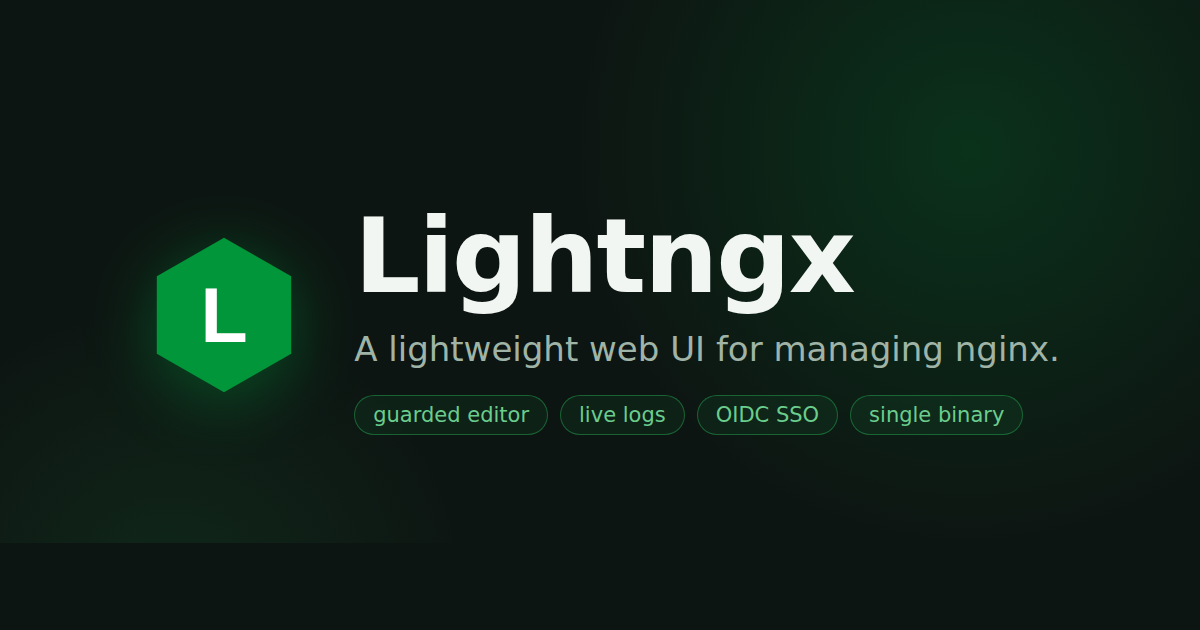
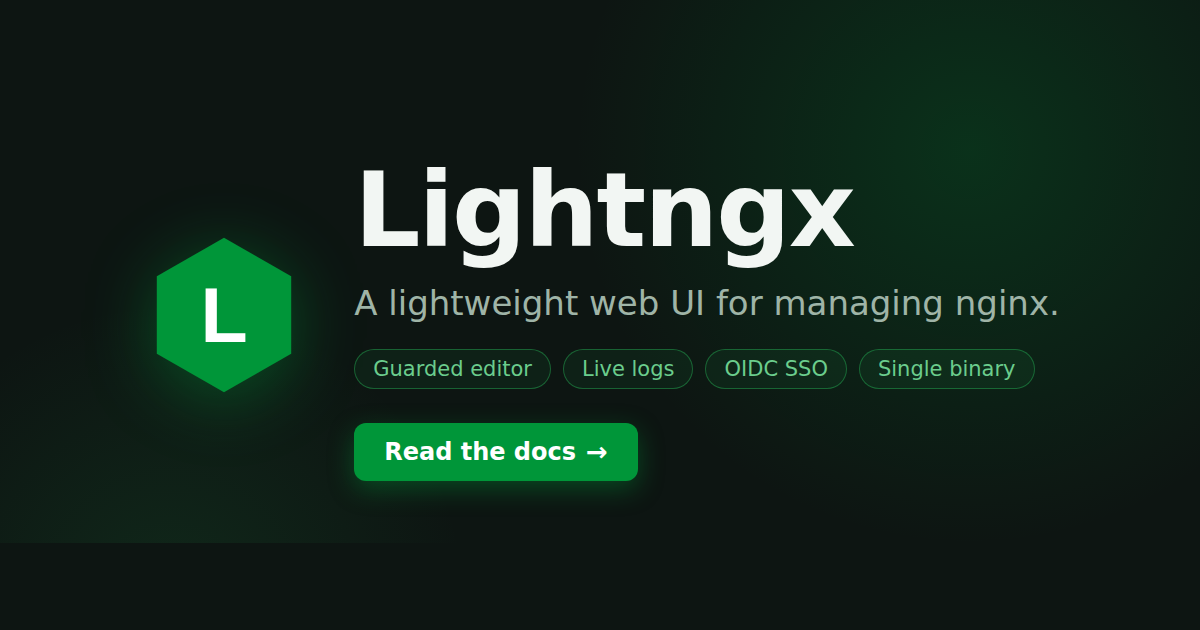
Add a call-to-action to the social card and capitalize its badges

Changed region(s): [[0.2775, 0.2413, 0.8942, 0.7841]]

diff --git a/docs/docusaurus.config.js b/docs/docusaurus.config.js
@@ -56,6 +56,8 @@ const config = {
         { property: "og:site_name", content: "Lightngx" },
         { property: "og:type", content: "website" },
         { name: "theme-color", content: "#009639" },
+        { name: "twitter:description", content: "A lightweight web UI for managing nginx." },
+        { name: "twitter:image:alt", content: "Lightngx, a lightweight web UI for managing nginx" },
       ],
       colorMode: { respectPrefersColorScheme: true },
       navbar: {